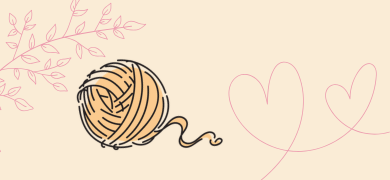
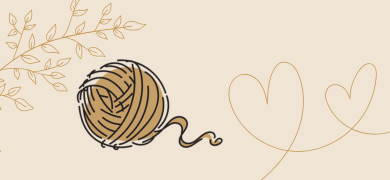
画像差し替え

diff --git a/css/top.css b/css/top.css
@@ -774,11 +774,45 @@ button {
 }
 
 @media (min-width: 1440px) {
-  .section__inner { max-width: 1280px; padding-top: 110px; padding-bottom: 110px; }
-  .section__inner--wide { max-width: 1360px; margin-inline: auto; }
-  .hero__content { left: calc((100vw - 1360px) / 2 + 40px); }
-  .category-grid { gap: 36px; }
-  .product-grid { gap: 48px 30px; }
-  .pickup-list { gap: 44px; }
-}
 
+  .hero__image {
+    width: 100%;
+    height: calc(100svh - 60px);
+    min-height: 720px;
+    max-height: none;
+
+    aspect-ratio: auto;
+    object-fit: cover;
+
+    /* 右上の照明を見せる */
+    object-position: center 38%;
+  }
+
+  .hero__content {
+    left: calc((100vw - 1360px) / 2 + 40px);
+    bottom: clamp(80px, 10vh, 130px);
+  }
+
+  .section__inner {
+    max-width: 1280px;
+    padding-top: 110px;
+    padding-bottom: 110px;
+  }
+
+  .section__inner--wide {
+    max-width: 1360px;
+    margin-inline: auto;
+  }
+
+  .category-grid {
+    gap: 36px;
+  }
+
+  .product-grid {
+    gap: 48px 30px;
+  }
+
+  .pickup-list {
+    gap: 44px;
+  }
+}

diff --git a/index.php b/index.php
@@ -63,10 +63,24 @@ switch ($rankingType) {
 
   <main>
     <section class="hero">
-      <img class="hero__image" src="images/top/hero.png" alt="花瓶とマグカップのある静かな暮らしの風景">
+      <picture class="hero__picture">
+        <source
+          media="(max-width: 767px)"
+          srcset="images/top/hero-sp.png"
+        >
+        <img
+          class="hero__image"
+          src="images/top/hero.png"
+          alt="花瓶とマグカップのある静かな暮らしの風景"
+        >
+      </picture>
+
       <div class="hero__content">
         <h1 class="hero__title">暮らしに、<br>小さな灯りを。</h1>
-        <p class="hero__text">毎日の風景になじむ、<br>長く愛せる暮らしの道具を集めました。</p>
+        <p class="hero__text">
+          毎日の風景になじむ、<br>
+          長く愛せる暮らしの道具を集めました。
+        </p>
         <a class="button button--hero" href="products">商品を見る</a>
       </div>
     </section>
